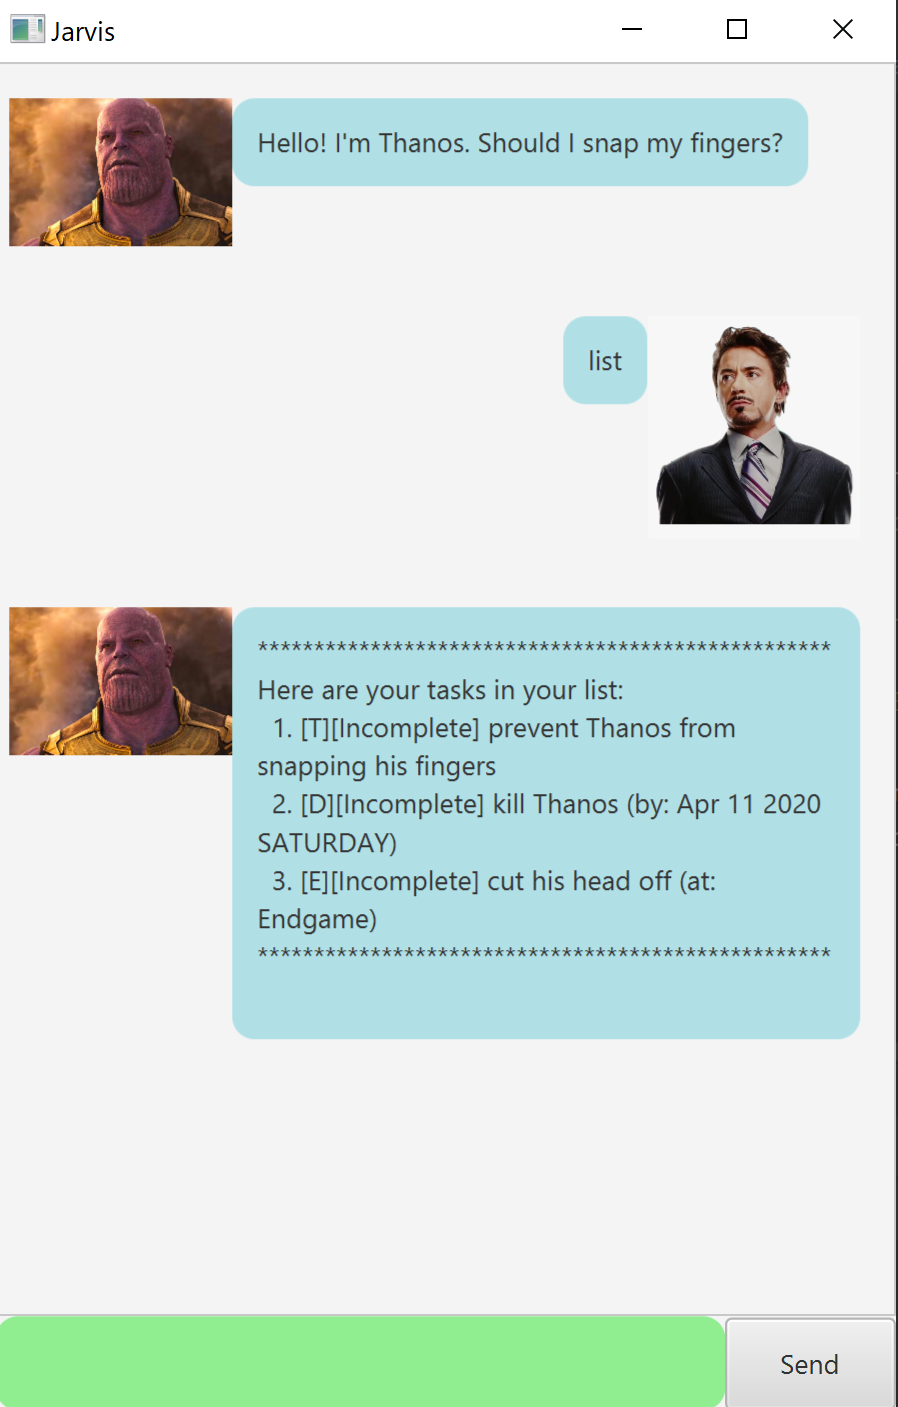
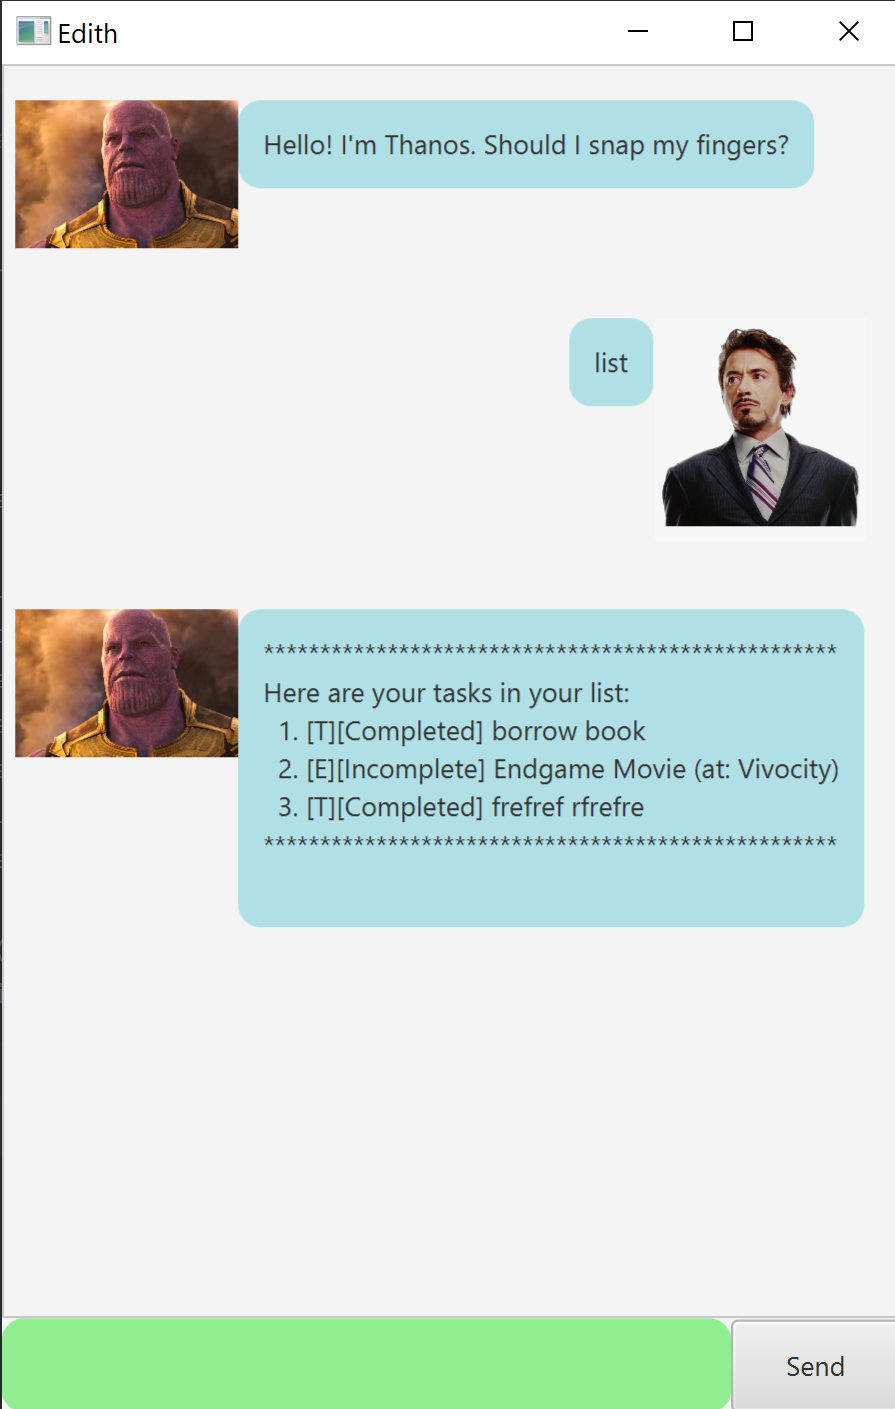
A-Release V2

diff --git a/src/main/java/dukeclasses/Main.java b/src/main/java/dukeclasses/Main.java
@@ -26,7 +26,7 @@ public class Main extends Application {
             AnchorPane ap = fxmlLoader.load();
             Scene scene = new Scene(ap);
             stage.setScene(scene);
-            stage.setTitle("Jarvis");
+            stage.setTitle("Edith");
             fxmlLoader.<MainWindow>getController().setDuke(duke);
             stage.show();
 

diff --git a/docs/README.md b/docs/README.md
@@ -31,8 +31,9 @@ Edith is a Personal Assistant Chatbot that helps a user keep track of various ta
     - todo <br>
     `todo [description]` <br>
      Example: `todo borrow book`<br>
-     Expected Output: ![](todo_success_image.png)
-                      Picture: todo Success Image
+     Expected Output: 
+     ![](todo_success_image.png)
+                     
      <br>
      
     - deadline <br>
